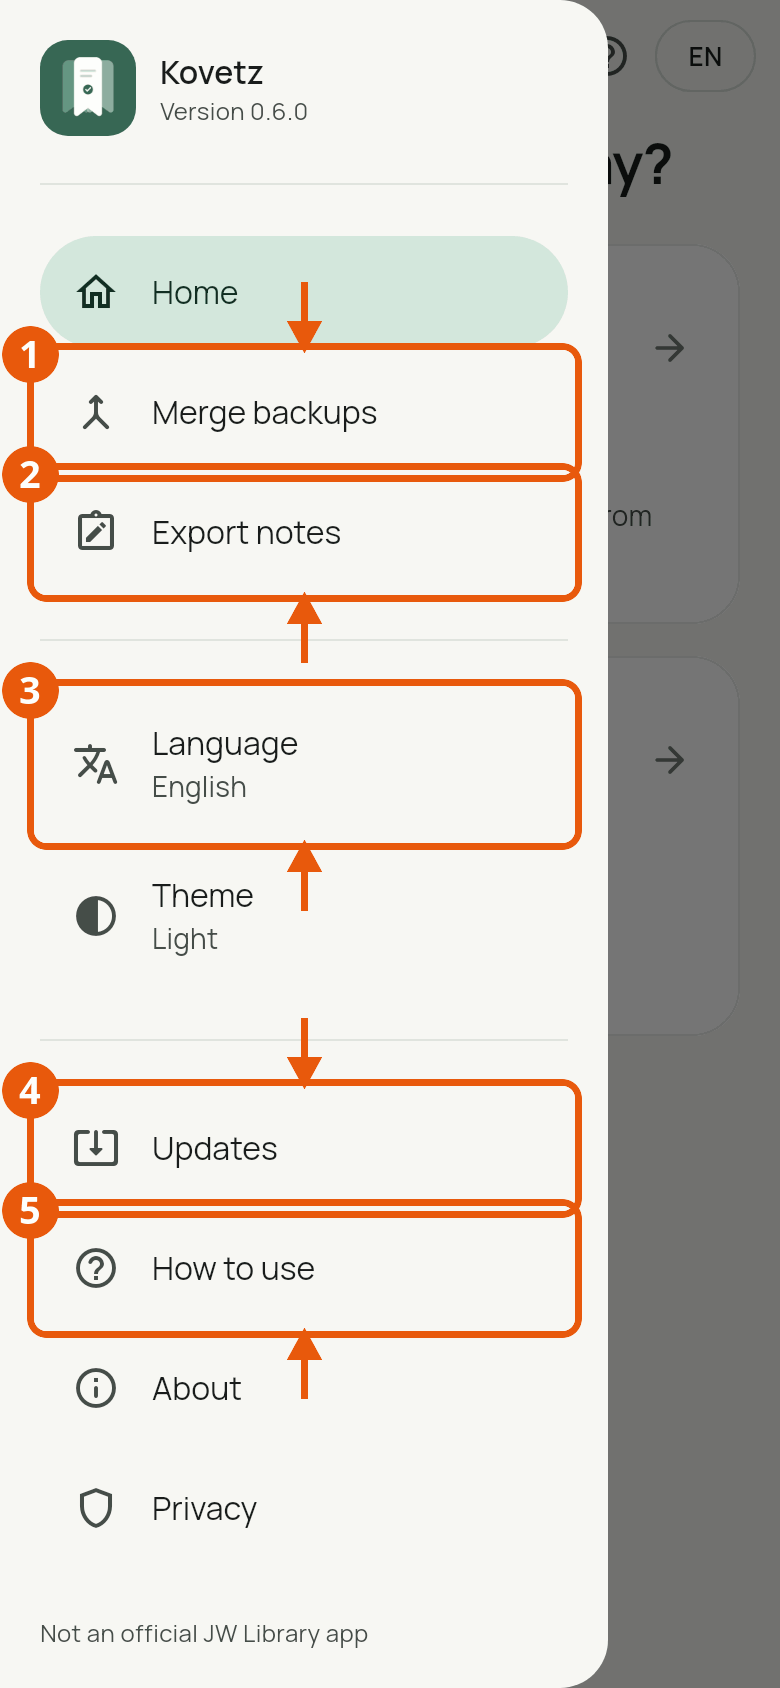
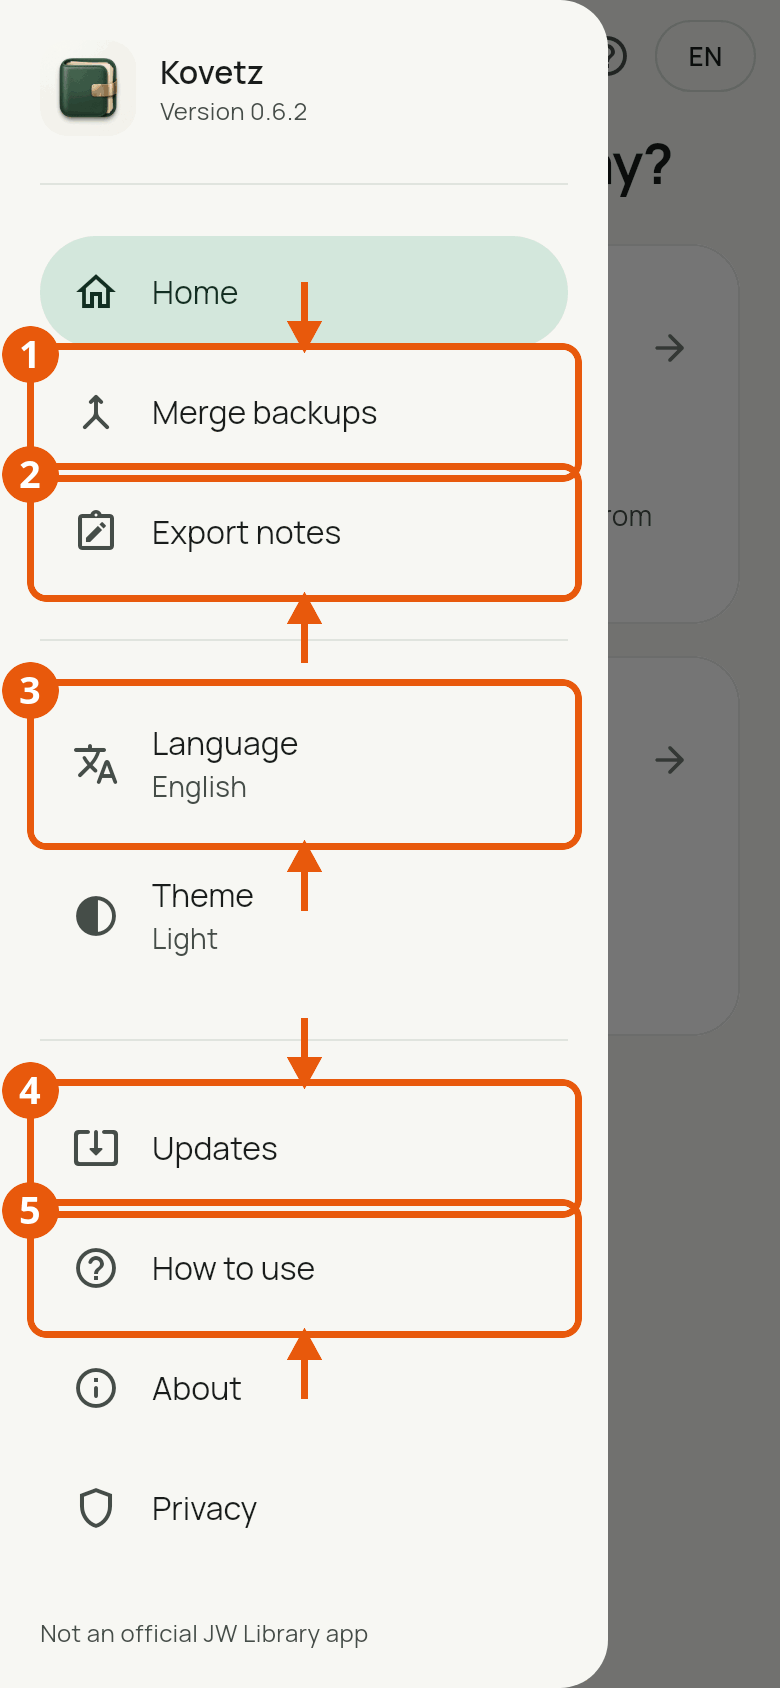
Сайт: новая иконка, версия 0.6.3

Changed region(s): [[0.0308, 0.0, 0.1846, 0.0924]]

diff --git a/site/ru/index.html b/site/ru/index.html
@@ -29,7 +29,7 @@
   <link rel="stylesheet" href="../style.css">
   <script src="../site.js" defer></script>
 
-  <script type="application/ld+json">{"@context":"https://schema.org","@type":"SoftwareApplication","name":"Kovetz","description":"Бесплатная программа объединяет резервные копии JW Library с разных устройств в одну и сохраняет заметки в PDF или Obsidian. Без рекламы, без интернета.","operatingSystem":"Android, Windows, Linux","applicationCategory":"UtilitiesApplication","softwareVersion":"0.6.2","downloadUrl":"https://github.com/pioner14/kovetz/releases/latest","offers":{"@type":"Offer","price":0,"priceCurrency":"EUR"},"author":{"@type":"Person","name":"Nikolai Golotaistrov"}}</script>
+  <script type="application/ld+json">{"@context":"https://schema.org","@type":"SoftwareApplication","name":"Kovetz","description":"Бесплатная программа объединяет резервные копии JW Library с разных устройств в одну и сохраняет заметки в PDF или Obsidian. Без рекламы, без интернета.","operatingSystem":"Android, Windows, Linux","applicationCategory":"UtilitiesApplication","softwareVersion":"0.6.3","downloadUrl":"https://github.com/pioner14/kovetz/releases/latest","offers":{"@type":"Offer","price":0,"priceCurrency":"EUR"},"author":{"@type":"Person","name":"Nikolai Golotaistrov"}}</script>
   <script type="application/ld+json">{"@context":"https://schema.org","@type":"FAQPage","mainEntity":[{"@type":"Question","name":"Заметки пропали после восстановления резервной копии. Что делать?","acceptedAnswer":{"@type":"Answer","text":"Восстановление в JW Library заменяет данные на устройстве. Если заметки сохранились в старых копиях, соберите их в одну с помощью Kovetz и восстановите объединённую копию."}},{"@type":"Question","name":"Нужен ли интернет?","acceptedAnswer":{"@type":"Answer","text":"Он нужен для скачивания программы и проверки обновлений по желанию. Объединение и экспорт работают без интернета."}},{"@type":"Question","name":"Безопасно ли это для исходных копий?","acceptedAnswer":{"@type":"Answer","text":"Kovetz сохраняет результат отдельным файлом, оставляя исходные копии без изменений. Перед восстановлением всё равно сделайте свежую копию устройства."}},{"@type":"Question","name":"Что будет, если одна заметка изменена на двух устройствах?","acceptedAnswer":{"@type":"Answer","text":"В объединённую копию попадёт более свежая версия, а вторая сохранится в отчёте."}},{"@type":"Question","name":"Вернутся ли заметки, которые я удалял?","acceptedAnswer":{"@type":"Answer","text":"Да, если удалённая заметка осталась в одной из копий, которые вы добавили для объединения."}},{"@type":"Question","name":"Какие копии подходят?","acceptedAnswer":{"@type":"Answer","text":"Подходят файлы .jwlibrary с разных устройств, в том числе копии, сделанные в разные годы."}},{"@type":"Question","name":"Можно ли вернуть заметки в JW Library из PDF или Obsidian?","acceptedAnswer":{"@type":"Answer","text":"Чтобы вернуть заметки в JW Library, восстановите объединённую копию .jwlibrary. Экспорт в PDF и Obsidian предназначен для чтения и поиска."}},{"@type":"Question","name":"Сколько стоит Kovetz?","acceptedAnswer":{"@type":"Answer","text":"Программа бесплатная. Исходный код доступен по лицензии MIT."}},{"@type":"Question","name":"Это официальная программа JW Library?","acceptedAnswer":{"@type":"Answer","text":"Kovetz — независимая программа, которая не связана с JW Library и её разработчиками."}}]}</script>
 </head>
 <body>
@@ -210,7 +210,7 @@
   <section id="download" class="section">
     <div class="container">
       <h2>Скачать Kovetz</h2>
-      <p class="version">Версия <strong>0.6.2</strong></p>
+      <p class="version">Версия <strong>0.6.3</strong></p>
       <div class="grid-three platforms">
                 <a class="card platform" href="https://github.com/pioner14/kovetz/releases/latest">
           <svg class="icon" viewBox="0 0 24 24" width="24" height="24" aria-hidden="true" fill="none" stroke="currentColor" stroke-width="1.7" stroke-linecap="round" stroke-linejoin="round"><path d="M4 16a8 8 0 0 1 16 0v3H4Zm3-9L5 4m12 3 2-3M8 14h.1m7.9 0h.1"/></svg>

diff --git a/site/en/index.html b/site/en/index.html
@@ -29,7 +29,7 @@
   <link rel="stylesheet" href="../style.css">
   <script src="../site.js" defer></script>
 
-  <script type="application/ld+json">{"@context":"https://schema.org","@type":"SoftwareApplication","name":"Kovetz","description":"Merge JW Library backups from multiple devices and export your notes to PDF or Obsidian. Kovetz is free, ad-free, and works offline.","operatingSystem":"Android, Windows, Linux","applicationCategory":"UtilitiesApplication","softwareVersion":"0.6.2","downloadUrl":"https://github.com/pioner14/kovetz/releases/latest","offers":{"@type":"Offer","price":0,"priceCurrency":"EUR"},"author":{"@type":"Person","name":"Nikolai Golotaistrov"}}</script>
+  <script type="application/ld+json">{"@context":"https://schema.org","@type":"SoftwareApplication","name":"Kovetz","description":"Merge JW Library backups from multiple devices and export your notes to PDF or Obsidian. Kovetz is free, ad-free, and works offline.","operatingSystem":"Android, Windows, Linux","applicationCategory":"UtilitiesApplication","softwareVersion":"0.6.3","downloadUrl":"https://github.com/pioner14/kovetz/releases/latest","offers":{"@type":"Offer","price":0,"priceCurrency":"EUR"},"author":{"@type":"Person","name":"Nikolai Golotaistrov"}}</script>
   <script type="application/ld+json">{"@context":"https://schema.org","@type":"FAQPage","mainEntity":[{"@type":"Question","name":"My notes disappeared after restoring a backup. What can I do?","acceptedAnswer":{"@type":"Answer","text":"Restoring in JW Library replaces the data on your device. If older backups still contain your notes, merge them with Kovetz and restore the combined file."}},{"@type":"Question","name":"Do I need an internet connection?","acceptedAnswer":{"@type":"Answer","text":"You only need it to download Kovetz and to check for updates if you choose. Merging and exporting work offline."}},{"@type":"Question","name":"Is it safe for my original backups?","acceptedAnswer":{"@type":"Answer","text":"Kovetz writes the result to a separate file and leaves your original backups untouched. Always make a fresh backup of your device before restoring."}},{"@type":"Question","name":"What happens if I edit the same note on two devices?","acceptedAnswer":{"@type":"Answer","text":"The merged backup keeps the newer version and saves the other version in the report."}},{"@type":"Question","name":"Will notes I deleted come back?","acceptedAnswer":{"@type":"Answer","text":"Yes, if a deleted note still exists in one of the backups you added to the merge."}},{"@type":"Question","name":"Which backups can I use?","acceptedAnswer":{"@type":"Answer","text":"Kovetz accepts .jwlibrary files from different devices, including backups made in different years."}},{"@type":"Question","name":"Can I import notes back into JW Library from PDF or Obsidian?","acceptedAnswer":{"@type":"Answer","text":"Restore the merged .jwlibrary backup to bring notes back into JW Library. PDF and Obsidian exports are for reading and searching."}},{"@type":"Question","name":"How much does Kovetz cost?","acceptedAnswer":{"@type":"Answer","text":"Kovetz is free. Its source code is available under the MIT license."}},{"@type":"Question","name":"Is Kovetz an official JW Library app?","acceptedAnswer":{"@type":"Answer","text":"Kovetz is an independent program, not affiliated with JW Library or its developers."}}]}</script>
 </head>
 <body>
@@ -210,7 +210,7 @@
   <section id="download" class="section">
     <div class="container">
       <h2>Download Kovetz</h2>
-      <p class="version">Version <strong>0.6.2</strong></p>
+      <p class="version">Version <strong>0.6.3</strong></p>
       <div class="grid-three platforms">
                 <a class="card platform" href="https://github.com/pioner14/kovetz/releases/latest">
           <svg class="icon" viewBox="0 0 24 24" width="24" height="24" aria-hidden="true" fill="none" stroke="currentColor" stroke-width="1.7" stroke-linecap="round" stroke-linejoin="round"><path d="M4 16a8 8 0 0 1 16 0v3H4Zm3-9L5 4m12 3 2-3M8 14h.1m7.9 0h.1"/></svg>

diff --git a/site/ru/guide/index.html b/site/ru/guide/index.html
@@ -98,7 +98,7 @@
   <p class="chapter-summary">Достаточно выполнить шаги для своего телефона или компьютера.</p>
   <article class="step card">
   <h3><span class="step-number">1</span> Android · Откройте страницу выпуска</h3>
-  <p>Откройте страницу выпусков Kovetz на <a href="https://github.com/pioner14/kovetz/releases">GitHub</a>. В списке файлов свежего выпуска выберите APK для Android (arm64).</p>
+  <p>Откройте страницу выпусков Kovetz на <a href="https://github.com/pioner14/kovetz/releases">GitHub</a>. В списке файлов свежего выпуска выберите APK для Android (64-разрядный).</p>
   
 </article>
   <article class="step card">

diff --git a/tool/build_site.dart b/tool/build_site.dart
@@ -85,7 +85,7 @@ class SiteBuilder {
       magick([
         '-background',
         'none',
-        'assets/brand/app_icon.svg',
+        'assets/brand/app_icon.png',
         '-resize',
         '${entry.value}x${entry.value}',
         '-depth',
